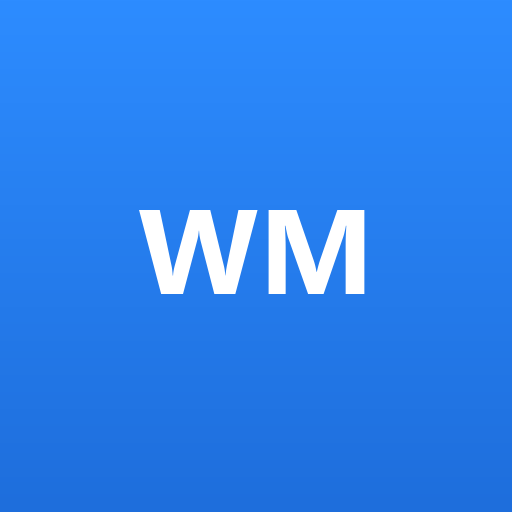
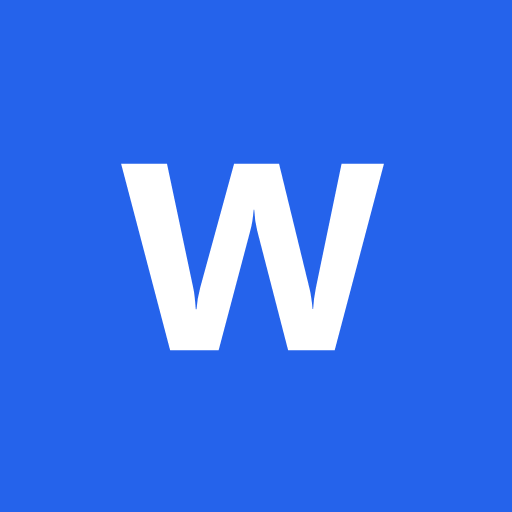
chore: PWA 아이콘 WM에서 W로 변경
기존 파란 배경 스타일을 유지하고 서비스 워커 캐시를 갱신한다.

diff --git a/sw.js b/sw.js
@@ -1,4 +1,4 @@
-const CACHE = "workgather-pwa-v8";
+const CACHE = "workgather-pwa-v9";
 
 const PRECACHE_URLS = [
   "/index.html",
